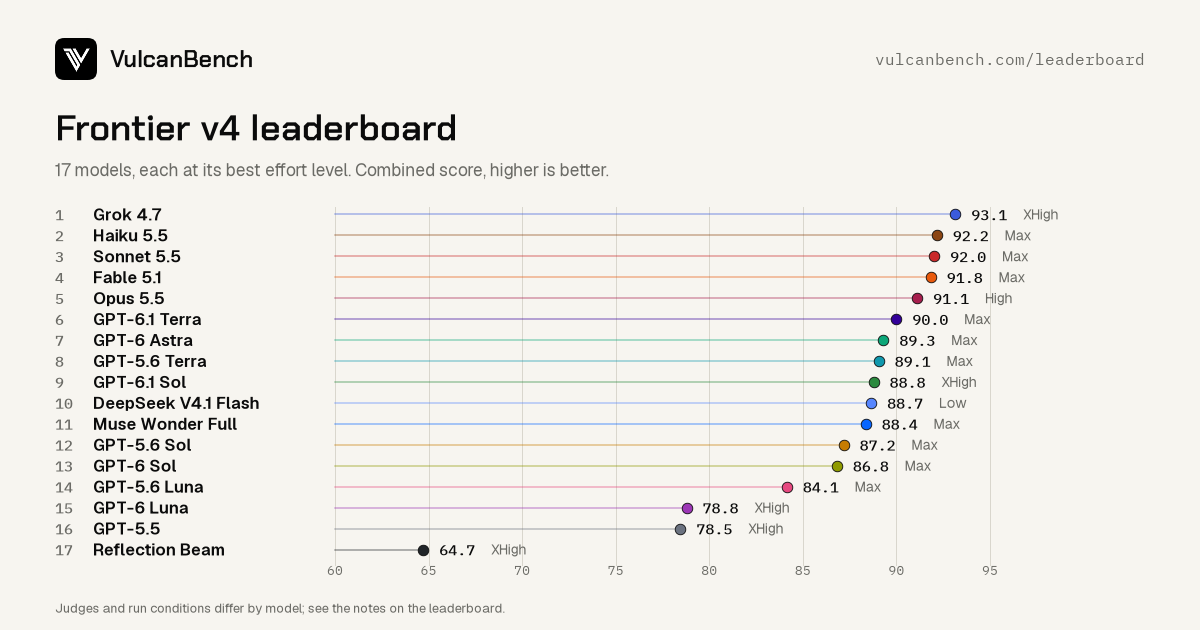
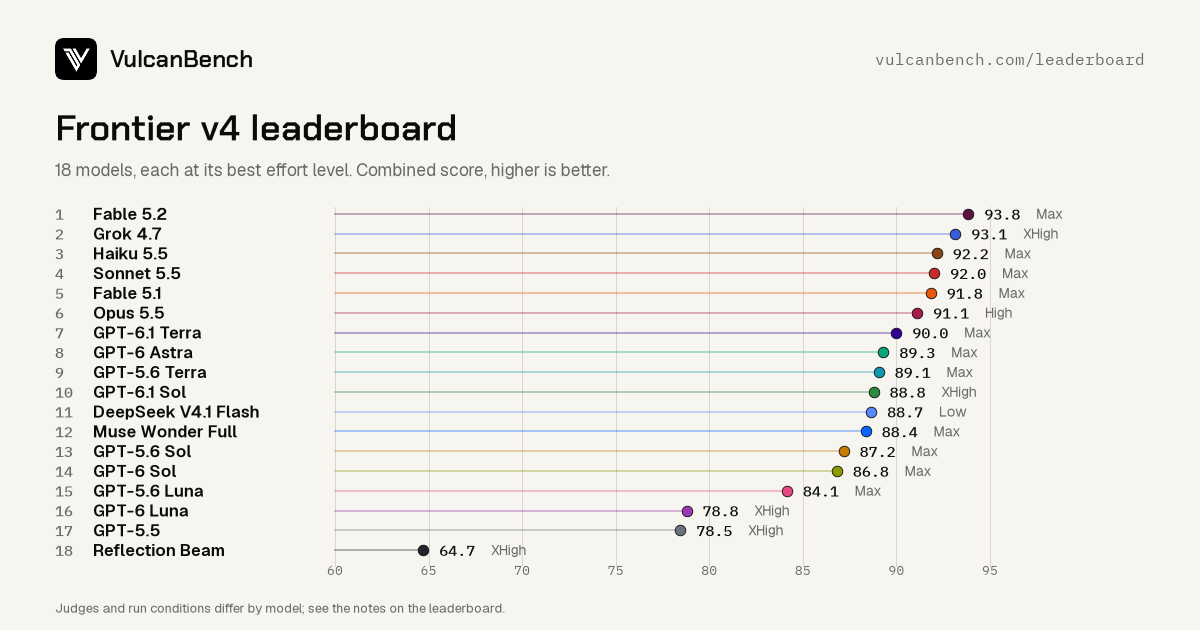
Fable 5.2 report: Muse-alone rounding; leaderboard share card for 18 models
- The Muse-alone table showed Fable 5.2 Extra-high as 92.12 because the CSV's four
  decimals land on a rounding boundary (92.1250); the full value is 92.1250188, so
  92.13, as the "one judge alone" line and the results README say. The test now reads
  Fable 5.2's Muse-alone row from groups.json at full precision.
- Regenerated assets/cards/leaderboard-frontier-v4.png with
  scripts/leaderboard-card/make_leaderboard_card.py (VulcanBench main) from this
  branch's board: 18 models, Fable 5.2 first at 93.8. Alt text updated to match.

Changed region(s): [[0.2775, 0.3317, 0.8942, 0.8444], [0.0308, 0.3317, 0.2158, 0.9048], [0.0617, 0.2413, 0.4933, 0.3016]]

diff --git a/benchmarks/swe-v4-fable52-v330.html b/benchmarks/swe-v4-fable52-v330.html
@@ -186,7 +186,7 @@
         <div class="suite-table-scroll" role="region" aria-label="Matched panel comparison" tabindex="0"><table class="suite-results"><caption>Combined score and Code quality under the matched Muse Spark 1.3 and GPT-6.1 Sol panel, 23 runs per cell; for this comparison only, the board keeps each model&rsquo;s published scores</caption><thead><tr><th scope="col">Model</th><th scope="col">Low</th><th scope="col">Medium</th><th scope="col">High</th><th scope="col">Extra-high</th><th scope="col">Max</th></tr></thead><tbody><tr data-matched="combined-fable52"><th scope="row">Combined, Claude Fable 5.2</th><td>91.92</td><td>92.25</td><td>92.76</td><td>93.25</td><td>93.85</td></tr><tr data-matched="combined-fable51"><th scope="row">Combined, Claude Fable 5.1</th><td>90.04</td><td>91.07</td><td>90.89</td><td>91.52</td><td>92.69</td></tr><tr data-matched="combined-opus55"><th scope="row">Combined, Claude Opus 5.5</th><td>87.85</td><td>92.16</td><td>91.96</td><td>91.65</td><td>91.24</td></tr><tr data-matched="cq-fable52"><th scope="row">Code quality, Claude Fable 5.2</th><td>80.63</td><td>81.49</td><td>82.95</td><td>84.25</td><td>86.02</td></tr><tr data-matched="cq-fable51"><th scope="row">Code quality, Claude Fable 5.1</th><td>81.15</td><td>82.99</td><td>83.35</td><td>84.26</td><td>85.01</td></tr><tr data-matched="cq-opus55"><th scope="row">Code quality, Claude Opus 5.5</th><td>77.03</td><td>81.26</td><td>80.56</td><td>82.94</td><td>82.87</td></tr></tbody></table></div>
         <p>Sol reviews every model higher than Muse does, and by different amounts: 6.7 to 8.1 points for Fable 5.2, 3.1 to 5.5 for Fable 5.1 and 5.8 to 10.1 for Opus 5.5. Under the matched panel Fable 5.2&rsquo;s Code quality is within 1.5 points of Fable 5.1&rsquo;s at every level, below it from Low to Extra-high and 1.0 above it at Max; every gap is inside the standard error of the difference (1.6 to 2.1).</p>
         <p><strong>Muse alone.</strong> Muse Spark 1.3 sat on every one of these rounds, Astra&rsquo;s included, with the same pinned binary, rubric and weights, so its scores alone are the only like-for-like comparison that includes all four models.</p>
-        <div class="suite-table-scroll" role="region" aria-label="Muse Spark 1.3 alone, four models" tabindex="0"><table class="suite-results"><caption>Combined score and Code quality from Muse Spark 1.3 alone, the one judge on every round, 23 runs per cell</caption><thead><tr><th scope="col">Model</th><th scope="col">Low</th><th scope="col">Medium</th><th scope="col">High</th><th scope="col">Extra-high</th><th scope="col">Max</th></tr></thead><tbody><tr data-muse="combined-fable52"><th scope="row">Combined, Claude Fable 5.2</th><td>91.09</td><td>91.16</td><td>91.53</td><td>92.12</td><td>92.78</td></tr><tr data-muse="combined-fable51"><th scope="row">Combined, Claude Fable 5.1</th><td>89.46</td><td>90.14</td><td>89.89</td><td>90.86</td><td>92.19</td></tr><tr data-muse="combined-opus55"><th scope="row">Combined, Claude Opus 5.5</th><td>86.47</td><td>91.05</td><td>91.03</td><td>90.79</td><td>90.35</td></tr><tr data-muse="combined-astra"><th scope="row">Combined, GPT-6 Astra</th><td>87.05</td><td>87.20</td><td>87.51</td><td>88.77</td><td>88.98</td></tr><tr data-muse="cq-fable52"><th scope="row">Code quality, Claude Fable 5.2</th><td>78.13</td><td>78.18</td><td>79.23</td><td>80.85</td><td>82.80</td></tr><tr data-muse="cq-fable51"><th scope="row">Code quality, Claude Fable 5.1</th><td>79.38</td><td>80.16</td><td>80.33</td><td>82.26</td><td>83.51</td></tr><tr data-muse="cq-opus55"><th scope="row">Code quality, Claude Opus 5.5</th><td>72.84</td><td>77.88</td><td>77.74</td><td>80.31</td><td>80.15</td></tr><tr data-muse="cq-astra"><th scope="row">Code quality, GPT-6 Astra</th><td>69.16</td><td>69.61</td><td>71.52</td><td>74.28</td><td>75.28</td></tr></tbody></table></div>
+        <div class="suite-table-scroll" role="region" aria-label="Muse Spark 1.3 alone, four models" tabindex="0"><table class="suite-results"><caption>Combined score and Code quality from Muse Spark 1.3 alone, the one judge on every round, 23 runs per cell</caption><thead><tr><th scope="col">Model</th><th scope="col">Low</th><th scope="col">Medium</th><th scope="col">High</th><th scope="col">Extra-high</th><th scope="col">Max</th></tr></thead><tbody><tr data-muse="combined-fable52"><th scope="row">Combined, Claude Fable 5.2</th><td>91.09</td><td>91.16</td><td>91.53</td><td>92.13</td><td>92.78</td></tr><tr data-muse="combined-fable51"><th scope="row">Combined, Claude Fable 5.1</th><td>89.46</td><td>90.14</td><td>89.89</td><td>90.86</td><td>92.19</td></tr><tr data-muse="combined-opus55"><th scope="row">Combined, Claude Opus 5.5</th><td>86.47</td><td>91.05</td><td>91.03</td><td>90.79</td><td>90.35</td></tr><tr data-muse="combined-astra"><th scope="row">Combined, GPT-6 Astra</th><td>87.05</td><td>87.20</td><td>87.51</td><td>88.77</td><td>88.98</td></tr><tr data-muse="cq-fable52"><th scope="row">Code quality, Claude Fable 5.2</th><td>78.13</td><td>78.18</td><td>79.23</td><td>80.85</td><td>82.80</td></tr><tr data-muse="cq-fable51"><th scope="row">Code quality, Claude Fable 5.1</th><td>79.38</td><td>80.16</td><td>80.33</td><td>82.26</td><td>83.51</td></tr><tr data-muse="cq-opus55"><th scope="row">Code quality, Claude Opus 5.5</th><td>72.84</td><td>77.88</td><td>77.74</td><td>80.31</td><td>80.15</td></tr><tr data-muse="cq-astra"><th scope="row">Code quality, GPT-6 Astra</th><td>69.16</td><td>69.61</td><td>71.52</td><td>74.28</td><td>75.28</td></tr></tbody></table></div>
         <p>Judged by Muse alone, Fable 5.2&rsquo;s code is slightly below Fable 5.1&rsquo;s at every level, by 0.7 to 2.0 points, each smaller than the standard error of the difference (1.8 to 2.6). It still leads on combined score at every level, because it solves every task. Under both panels its lead comes from correctness, speed and cost, not from code quality.</p>
       </section>
 

diff --git a/leaderboard.html b/leaderboard.html
@@ -23,12 +23,12 @@
 <meta property="og:image" content="https://vulcanbench.com/assets/cards/leaderboard-frontier-v4.png">
 <meta property="og:image:width" content="1200">
 <meta property="og:image:height" content="630">
-<meta property="og:image:alt" content="VulcanBench Frontier v4 leaderboard: 17 models ranked by combined score, each at its best effort level, from Grok 4.7 at 93.1 to Reflection Beam at 64.7">
+<meta property="og:image:alt" content="VulcanBench Frontier v4 leaderboard: 18 models ranked by combined score, each at its best effort level, from Fable 5.2 at 93.8 to Reflection Beam at 64.7">
 <meta name="twitter:card" content="summary_large_image">
 <meta name="twitter:title" content="VulcanBench leaderboard: Frontier v4 across every effort level">
 <meta name="twitter:description" content="VulcanBench Frontier v4 leaderboard: every model at every effort level, ranked by combined score with Code quality, runtime and cost.">
 <meta name="twitter:image" content="https://vulcanbench.com/assets/cards/leaderboard-frontier-v4.png">
-<meta name="twitter:image:alt" content="VulcanBench Frontier v4 leaderboard: 17 models ranked by combined score, each at its best effort level, from Grok 4.7 at 93.1 to Reflection Beam at 64.7">
+<meta name="twitter:image:alt" content="VulcanBench Frontier v4 leaderboard: 18 models ranked by combined score, each at its best effort level, from Fable 5.2 at 93.8 to Reflection Beam at 64.7">
 <link rel="preconnect" href="https://fonts.googleapis.com">
 <link rel="preconnect" href="https://fonts.gstatic.com" crossorigin>
 <link href="https://fonts.googleapis.com/css2?family=Chakra+Petch:wght@400;500;600&family=IBM+Plex+Mono:ital,wght@0,400;0,500;1,400&display=swap" rel="stylesheet">

diff --git a/scripts/test_swe_v4_v330.py b/scripts/test_swe_v4_v330.py
@@ -214,9 +214,13 @@ class Fable52PageTests(unittest.TestCase):
             self.assertEqual(re.findall(r"<td>([^<]+)</td>", row), [f'{float(card[m, e]["combined"]):.2f}' for e in EFFORTS])
         with (DATA / "muse-like-for-like.csv").open() as fh:
             muse = {(r["model"], r["effort"]): r for r in csv.DictReader(fh)}
+        # Fable 5.2's Muse-alone combined score comes from groups.json at full precision:
+        # the CSV's four decimals put Extra-high exactly on a rounding boundary (92.1250).
+        own = {x["effort"]: x["combined_single_judge"]["muse"]["mean"] for x in json.loads((DATA / "groups.json").read_text())}
         for m in ("fable52", "fable51", "opus55", "astra"):
             row = self.page_html[self.page_html.index(f'data-muse="combined-{m}"'):].split("</tr>")[0]
-            self.assertEqual(re.findall(r"<td>([^<]+)</td>", row), [f'{float(muse[m, e]["muse_combined"]):.2f}' for e in EFFORTS])
+            expected = [own[e] if m == "fable52" else float(muse[m, e]["muse_combined"]) for e in EFFORTS]
+            self.assertEqual(re.findall(r"<td>([^<]+)</td>", row), [f"{v:.2f}" for v in expected])
         for key, bundle, model in (("fable51", "swe-v4-astra-fable51-v34", "fable"), ("opus55", "swe-v4-opus55-v315", "opus55"),
                                    ("astra", "swe-v4-astra-fable51-v34", "astra")):
             groups = {x["effort"]: x for x in json.loads((ROOT / "assets/data" / bundle / "groups.json").read_text()) if x["model"] == model}
